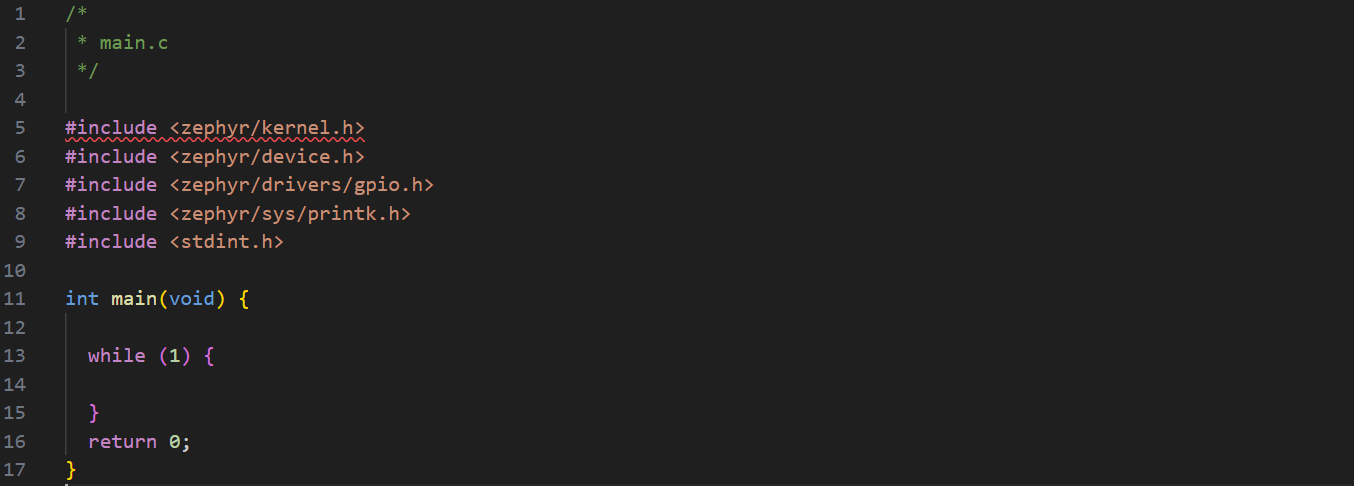
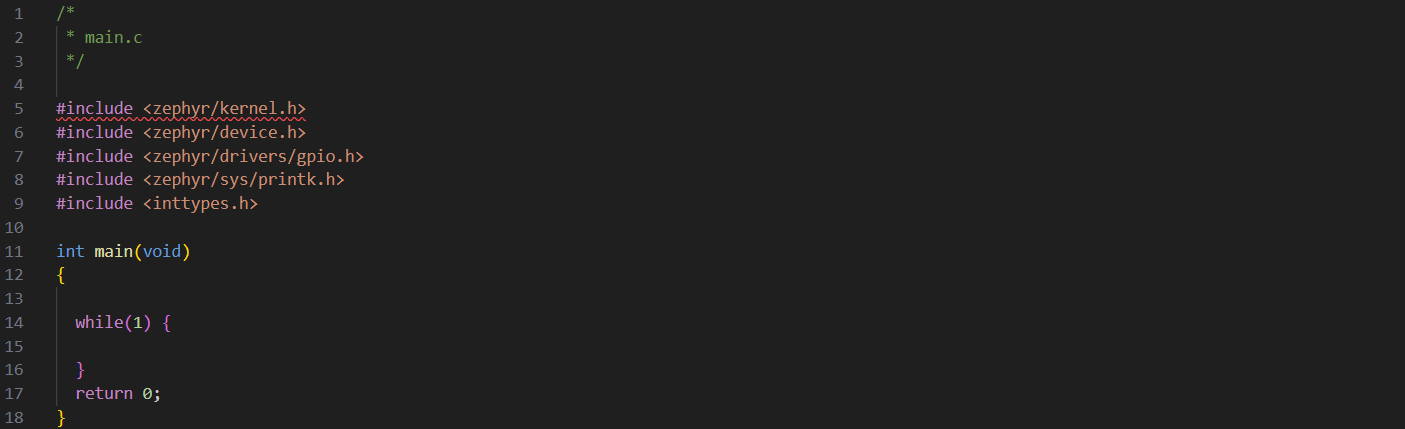
Lesson revision 2

diff --git a/app/modules/BTN/BTN.h b/app/modules/BTN/BTN.h
@@ -5,7 +5,7 @@ Header to define button interface
 #ifndef BTN_H
 #define BTN_H
 
-#include "includes.h"
+#include "stdbool.h"
 
 /* ----------------------------------------------------------------------------
                                     TYPES

diff --git a/app/src/main.c b/app/src/main.c
@@ -8,8 +8,7 @@
 #include <zephyr/sys/printk.h>
 #include <inttypes.h>
 
-int main(void)
-{
+int main(void) {
 
   while(1) {
 

diff --git a/doc/4_Debug_and_Buttons/README.md b/doc/4_Debug_and_Buttons/README.md
@@ -148,7 +148,7 @@ negative return values are typically used to convey error codes.
      - Note: * is called a "glob" and in this case denotes all names/symbols starting with
        "gpio_"
    - <zephyr/sys/printk.h> includes the printk function
-   - <stdint.h> includes fixed sized integer types like uint8_t and sint32_t
+   - <inttypes.h> includes fixed sized integer types like uint8_t and sint32_t
 2. Start by initializing the `gpio_dt_spec` struct for button 0 from the device tree  
    ![](images/InitializeGpioSpec.png)  
    Remember that this is going to the device tree (the abstraction layer that maps boards to the
@@ -304,6 +304,8 @@ Build this and flash it to your board. Now click the button 15 times and count h
 
 Create seperate git commits for each part of the exercise, once you're done this lesson push
 your changes to the debug_buttons branch of your repository.
+
+- 
 
 - Create a password system that uses BTN0, BTN1, BTN2 as inputs, and BTN3 as the "enter" button.
    The program should start in a locked state with LED0 turned on. The user should be able to click
